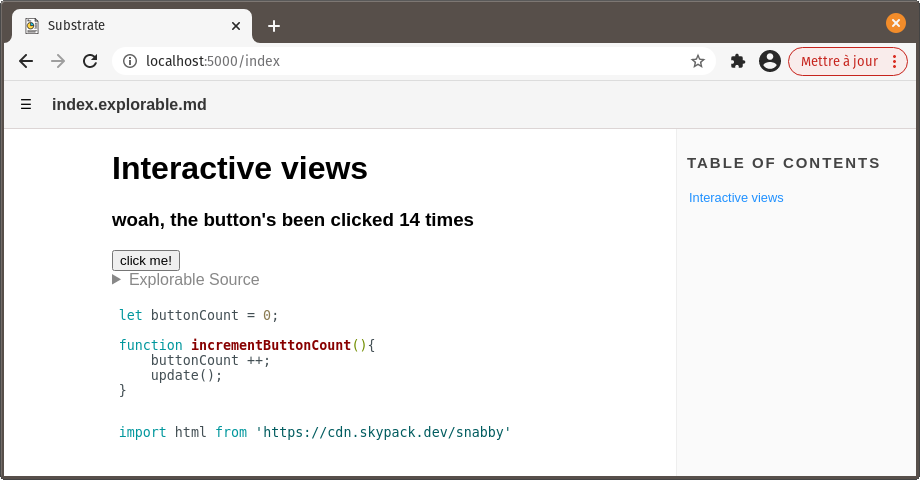
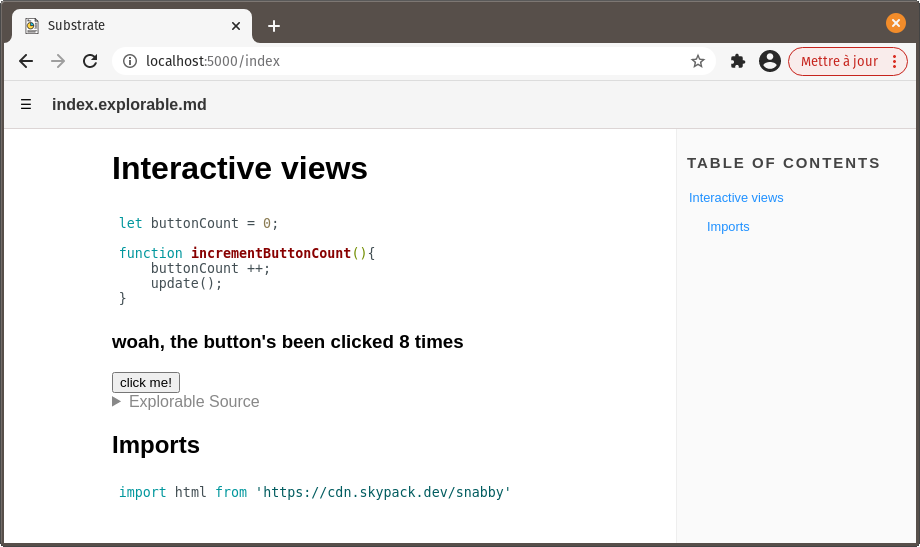
tidy up interactive-views tutorial

diff --git a/docs/tutorials/interactive-views.md b/docs/tutorials/interactive-views.md
@@ -1,33 +1,41 @@
 # Interactive views
 
-This tutorial will guide you through adding interactive views to your Substrate documents. These views are very handy to display live examples of the code contained in a document.
+This tutorial will guide you through adding interactive HTML views to Substrate documents. These views are quite handy to display live, visual examples of the code contained in a document and/or imported from others.
 
-## Create a JavaScript explorable block
+We'll also cover some notions of code architecture that are not necessarily Substrate-specific. Bear in mind that the approaches presented here, though well suited for leveraging Substrate's features, are just a few of the many possible.
+
+## Create an explorable block
 
 Create a folder for this project, `interactive-views`.
 
-Inside of it, create a Substrate document, `index.explorable.md`. Edit it like so :
+Inside of it, create a new Substrate document, `index.explorable.md`, with the following content :
 
 ~~~md
 # Interactive views
 
 ```js explorable
-console.log("I am a JavaScript explorable block. I'm hidden by default!")
+
+console.log("I am a JavaScript explorable block. My code is hidden by default and only executes in this document!")
+
 ```
 ~~~
 
 This defines a **_JavaScript explorable_** block.
 
-Blocks of this type differ from the regular JavaScript blocks in some important ways :
-- They're displayed as collapsibles in the viewer
-- The code they contain is _excluded_ from the document's output - it will only execute when viewing this document in the viewer
-- They may contain an html view
+If you take a look at this document in the viewer, you will notice that the block's code is hidden by default, as a collapsible. That's one distinctive feature of explorable blocks. Nevertheless, `"I am a Javascript explorable block...` is logged to the console, meaning the code executes.
 
-__In short, they're perfectly suited for code examples that should have no incidence outside of the document.__
+However, if you try importing `index.explorable.md` in another document, and view that document, you won't see anything logging to the console. That's because the code contained in explorable blocks is _excluded_ from a document's output - it will only ever execute when viewing that particular document.
 
-We're going to leverage this to insert an interactive view in our document.
+__This makes explorable blocks perfectly suited for code examples that should have no incidence outside of a document.__
 
-## Add an html view
+That's great, but how will the result of these examples show up, besides console logs and shabby `alert()` pop-ups?
+
+Enter the third distinctive feature of explorable blocks, and not the least: HTML views. Indeed, these blocks can contain a definition for an arbitrary HTML structure that will get rendered right above them. It is then possible to factor JavaScript code and user input into these views.
+
+Let's try it, shall we?
+
+
+## Add an HTML view
 
 Edit `index.explorable.md` like so:
 
@@ -47,27 +55,27 @@ import html from 'https://cdn.skypack.dev/snabby'
 ```
 ~~~
 
-This does two things:
+Two things happen here:
 
-- `import html from 'https://cdn.skypack.dev/snabby'` 
-imports an external dependency, Snabby, through skypack. Snabby is required to define the content of html views in Substrate documents.
-- `` html`<div>hello</div>` `` invokes Snabby's tag function to create a Snabbdom virtual node as a template string. Because this is the last statement in the block, Substrate will insert an html view with this content in the viewer, just above the block's code.
+- **`import html from 'https://cdn.skypack.dev/snabby'`** 
+imports an external dependency, [Snabby](https://www.skypack.dev/view/snabby)**, through [Skypack](https://www.skypack.dev/). Snabby is required to define HTML views in Substrate documents.
+- **`` html`...` ``** invokes Snabby's tag function to create a [Snabbdom](https://www.skypack.dev/view/snabbdom) virtual node as a template string. Because this is the last statement in the block, Substrate will insert an HTML view with this content in the viewer, just above the block's code.
 
 **Snabby _has_ to be imported as `html` for views to be inserted.** The `html` call also has to sit at the very end of an explorable block.
 
 Furthermore, it's worth noting that **explorable blocks with a view** (ending with `` `html...` ``) **can't contain import statements.** When that happens, an error is thrown and neither the view nor the imports work.
 
-If you take a look at the document in the viewer, you should now see 'hello' above the collapsible explorable source.
+In the viewer, 'hello' should show up.
 
 ![An image](./views-1.png)
 
-That's our html view - a very basic one so far.
+That's our view - arbitrary HTML rendered directly in our document's visualization!
 
 
 
-## Interactivity
+## Make it interactive
 
-Now let's infuse some interactivity into this view. Wouldn't it be great if a button changed the displayed text when clicked?
+Now let's infuse some interactivity into this view. Wouldn't it be great if a button changed the displayed text when clicked? Yes, yes it would.
 
 In `index.explorable.md`, add a JavaScript block with the following content:
 
@@ -81,9 +89,9 @@ function incrementButtonCount(){
 ```
 ~~~
 
-`incrementButtonCount()` is to be called on every button click, incrementing `buttonCount`.
+**`buttonCount`** will hold the number of times a button has been clicked, and **`incrementButtonCount()`** will increment `buttonCount` when called.
 
-Then, edit the view's template string:
+Then, edit the view's template string like so:
 
 ~~~md
 ```js explorable
@@ -94,13 +102,20 @@ html`<div>
 ```
 ~~~
 
-- Our `h3`'s content is edited to include `buttonCount`'s value
-- A button is inserted in the view using a `<button>` tag
-- `@on:click=${incrementButtonCount}` interacts with Snabbdom's **eventListeners** module to have `incrementButtonCount` listen to clicks on this button.
+- **`${buttonCount}`** embeds the value of `buttonCount` in our `<h3>`'s displayed text content.
+- **`<button...>`** is a button element added to the view.
+- **`@on:click=${incrementButtonCount}`** is a Snabby _directive_. It interacts with Snabbdom's **eventListeners** module to have `incrementButtonCount()` called whenever this button is clicked. Like `buttonCount`, `incrementButtonCount` is embedded into the template string by wrapping it in `${...}`.
+
+This template string isn't directly appended to the DOM. Instead, it's a template for a _virtual node_ (or _vnode_) - sort of a model for a desired DOM state that is initially used to insert corresponding elements in the DOM. When some change occurs in that model, the new version is compared with the previous one to update the DOM efficiently.
+
+When updating our view, Snabby will recalculate the model from the template, factoring in the current value of everything embedded with `${...}`.
+
+So, changing the value of `buttonCount` will suffice to change our `<h3>`'s displayed content. Will it?
+
 
 #### Refreshing the view
 
-There's one thing missing. We need the view to refresh when `buttonCount` changes. 
+There's actually just one thing missing. We need to tell the view to refresh after `buttonCount` changes. 
 
 To achieve this, simply add `update()` at the end of `incrementButtonCount`:
 
@@ -115,12 +130,12 @@ function incrementButtonCount(){
 
 **It's important to consider that `update()` also causes the JavaScript code in the views' block to re-execute.** If we had defined `buttonCount` and `incrementButtonCount()` in the same block as our view, `buttonCount` would have reset to 0 on every refresh, and `incrementButtonCount()` would have been uselessly recreated over and over again.
 
-Hopefully, we didn't do that. The result should look like this in the viewer:
+Hopefully, we didn't do that. Phew!
 
 ![An image](./views-2.png)
 
 
-## CSS styling
+## Style it with CSS
 
 Let's make this view more interesting.
 
@@ -156,7 +171,9 @@ Back to `index.explorable.md`, add this line to the first JavaScript block - the
 import css from './styles.css'
 ```
 
-Finally, to apply the imported styles to the html view, add a `<style>` tag in the view's `div`:
+Substrate turns `./styles.css` into a JavaScript module that exports a string. (See [styling interactive views](../guide/documents#styling-interactive-views))
+
+To apply the imported styles to the html view, add a `<style>` tag in the view's `div`:
 
 ~~~md
 ```js explorable
@@ -174,11 +191,11 @@ That's better!
 
 ## Insert a canvas element
 
-Oftentimes, you might want to have a canvas element in your interactive views.
+While it's awesome to be able to embed a DOM structure into a document and interact with them, some code is meant to ultimately draw things to the screen in more of a freestyle fashion - as is the case in most videogames. That's what the canvas element is for.
 
-Here, in order to keep things nice and clean, an object holding properties for rendering to the canvas will be placed in a separate file.
+It's as easy to add a canvas to a view as any other HTML element. But in order to keep things nice and clean, let's have information for rendering to the canvas stored in a separate file.
 
-In your project folder, create a subdirectory, `lib`, where all local dependencies of `index.explorable.md` will go.
+In your project folder, create a subfolder, `lib`, where all local dependencies of `index.explorable.md` will go.
 
 Inside of `lib`, create `Renderer.explorable.md` with the following content:
 
@@ -205,6 +222,8 @@ html`<canvas width="${Renderer.width}"
 ```
 ~~~
 
+Of course, we could have styled the canvas with CSS instead of inlining it.
+
 Finally, add the import statement for `Renderer` alongside the other imports:
 
 ```js
@@ -218,7 +237,7 @@ There you go! The newer html view contains a blank canvas ready to be drawn onto
 
 ## Draw to the canvas
 
-In order to draw to the canvas, we need to get a reference to its drawing context. This can be done handily by taking advantage of Snabbdom hooks.
+First, we need to get a reference to its drawing context. This can be done handily by taking advantage of Snabbdom hooks.
 
 Add `@hook:insert=${_insertHook}` to the canvas-related html view, as an attribute:
 
@@ -229,9 +248,9 @@ html`<canvas width="${Renderer.width}"
     style="background: linear-gradient(45deg, rgb(86 160 255) 0%, rgb(21, 64, 139) 100%)">
 </canvas>`
 ```
-`@hook:insert=${_insertHook}` interacts with Snabbdom's **hooks** module to have `_insertHook()` called when the canvas element corresponding to this virtual node is inserted into the DOM. A reference to the virtual node will be passed to `_insertHook()`.
+`@hook:insert=${_insertHook}` is another of Snabby's _directives_. It interacts with Snabbdom's **hooks** module to have `_insertHook()` called when the canvas element corresponding to this virtual node is inserted into the DOM. A reference to the virtual node will be passed to `_insertHook()`.
 
-From there, it's simple to grab a reference to the canvas element's drawing context through the vnode's `elem` property. In the topmost JavaScript block, after `incrementButtonCount()`, add the definition for `_insertHook()`:
+From there, it's simple to grab a reference to the canvas element's drawing context through the vnode's `elm` property. In the topmost JavaScript block, after `incrementButtonCount()`, add the definition for `_insertHook()`.
 
 ```js
 function _insertHook(vnode){
@@ -241,16 +260,16 @@ function _insertHook(vnode){
 }
 ```
 
-The drawing context is immediately used to draw a white rectangle:
+In addition to getting the drawing context, we use it immediately to draw a white rectangle.
 
 ![An image](./views-5.png)
 
 
-## Game loop
+## Setup an animation loop
 
-While drawing to the canvas can now be done anywhere in the code, a common approach is to implement a 'game loop' to update and redraw things every frame.
+While drawing to the canvas can now be done anywhere in the code, a common approach is to implement a loop to update and redraw things every frame.
 
-We won't be drawing to the canvas in `insertHook()` anymore. We'll also need our `Renderer` object to hold a reference to the drawing context. Re-write this function like so:
+We won't be drawing to the canvas in `_insertHook()` anymore. We'll also need our `Renderer` object to hold a reference to the drawing context. Re-write `_insertHook` like so:
 
 ```js
 function _insertHook(vnode){
@@ -259,7 +278,7 @@ function _insertHook(vnode){
 }
 ```
 
-Just below it, add the definition for `gameLoop()`:
+And just below it, add the definition for `gameLoop()`:
 ```js
 function gameLoop(elapsedMS){
     renderScene(elapsedMS/1000)
@@ -300,11 +319,11 @@ import renderScene from './lib/renderScene.explorable.md'
 That white rectangle should now be a moving one.
 
 
-## More interactivity
+## Influence the canvas
 
 Of course, what is rendered should often be affected by user input.
 
-Here, among infinite possibilities, we can have the button click count influence the drawn rectangle's position.
+Let's have the button click count influence the drawn rectangle's position.
 
 In `renderScene.explorable.md`, edit the call to `Renderer.ctx.fillRect()`:
 
@@ -318,9 +337,9 @@ Renderer.ctx.fillRect(
 
 Does that work? No, it doesn't. An error is thrown because `buttonCount` doesn't exist in the scope of this module. Oops!
 
-A simple workaround would be to pass `buttonCount` to `renderScene()`. That would work.
+A simple workaround would be to pass `buttonCount` to `renderScene()`. That would do it nicely.
 
-However, in a lot of cases, rendering depends on a vast amount of variables, all of which can't always be passed to the rendering function. A more interesting approach, then, is to put information concerning the application's state in a module (or modules) so it can be imported whenever required.
+However, in a lot of cases, rendering depends on a vast amount of information, all of which can't always be passed to the rendering function. A more interesting approach, then, is to put information concerning the application's state in a module (or modules) so it can be imported whenever required.
 
 In the `lib` subfolder, create a new document, `globals.explorable.md`, with the following content:
 
@@ -360,7 +379,7 @@ In `index.explorable.md`, change the import statement for `Renderer` accordingly
 import {Renderer, state} from './lib/globals.explorable.md'
 ```
 
-This also imports `state`, the object holding `buttonCount` as a property.
+This imports both `Renderer` and `state` from `globals.explorable.md`, as named imports.
 
 Replace both occurences of `buttonCount` with `state.buttonCount` in this document:
 
@@ -403,14 +422,18 @@ import {Rect, Renderer, state} from './globals.explorable.md'
 
 In addition to pointing correctly to imports and `buttonCount`, this function doesn't use hardcoded 'magic numbers' anymore to render the rectangle. Instead, it relies on properties of globally-accessible objects. This paves the way for more potential interactivity.
 
-`state.buttonCount` is factored into the x component of the rectangle's drawn position, which was our objective. And through `Rect`'s properties, we've changed the rectangle's color and size.
+`state.buttonCount` is factored into the x component of the rectangle's drawing position, which was our objective. And through `Rect`'s properties, we've changed the rectangle's color and size.
 
 ![An image](./views-7.png)
 
+Because the views are updated efficiently - with the minimum required amount of disruption - our canvas element doesn't get re-created every time the button is clicked and `update()` is called. Good thing!
 
-## Combining the views
+We could also add event listeners to the canvas to detect clicks, mouse position, key presses, etc. pretty much anything that can be done on a regular webpage can be done here.
 
-Html views don't have to contain either a canvas element, or some other DOM structure. Both can coexist harmoniously, **_as long as there's exactly one top-level node_**.
+
+## Merge the views
+
+HTML views don't have to contain either a canvas element or some other DOM structure. Both will coexist harmoniously, **_as long as there's exactly one top-level node containing the others_**.
 
 In `index.explorable.md`, replace the two JavaScript explorable blocks with this one:
 
